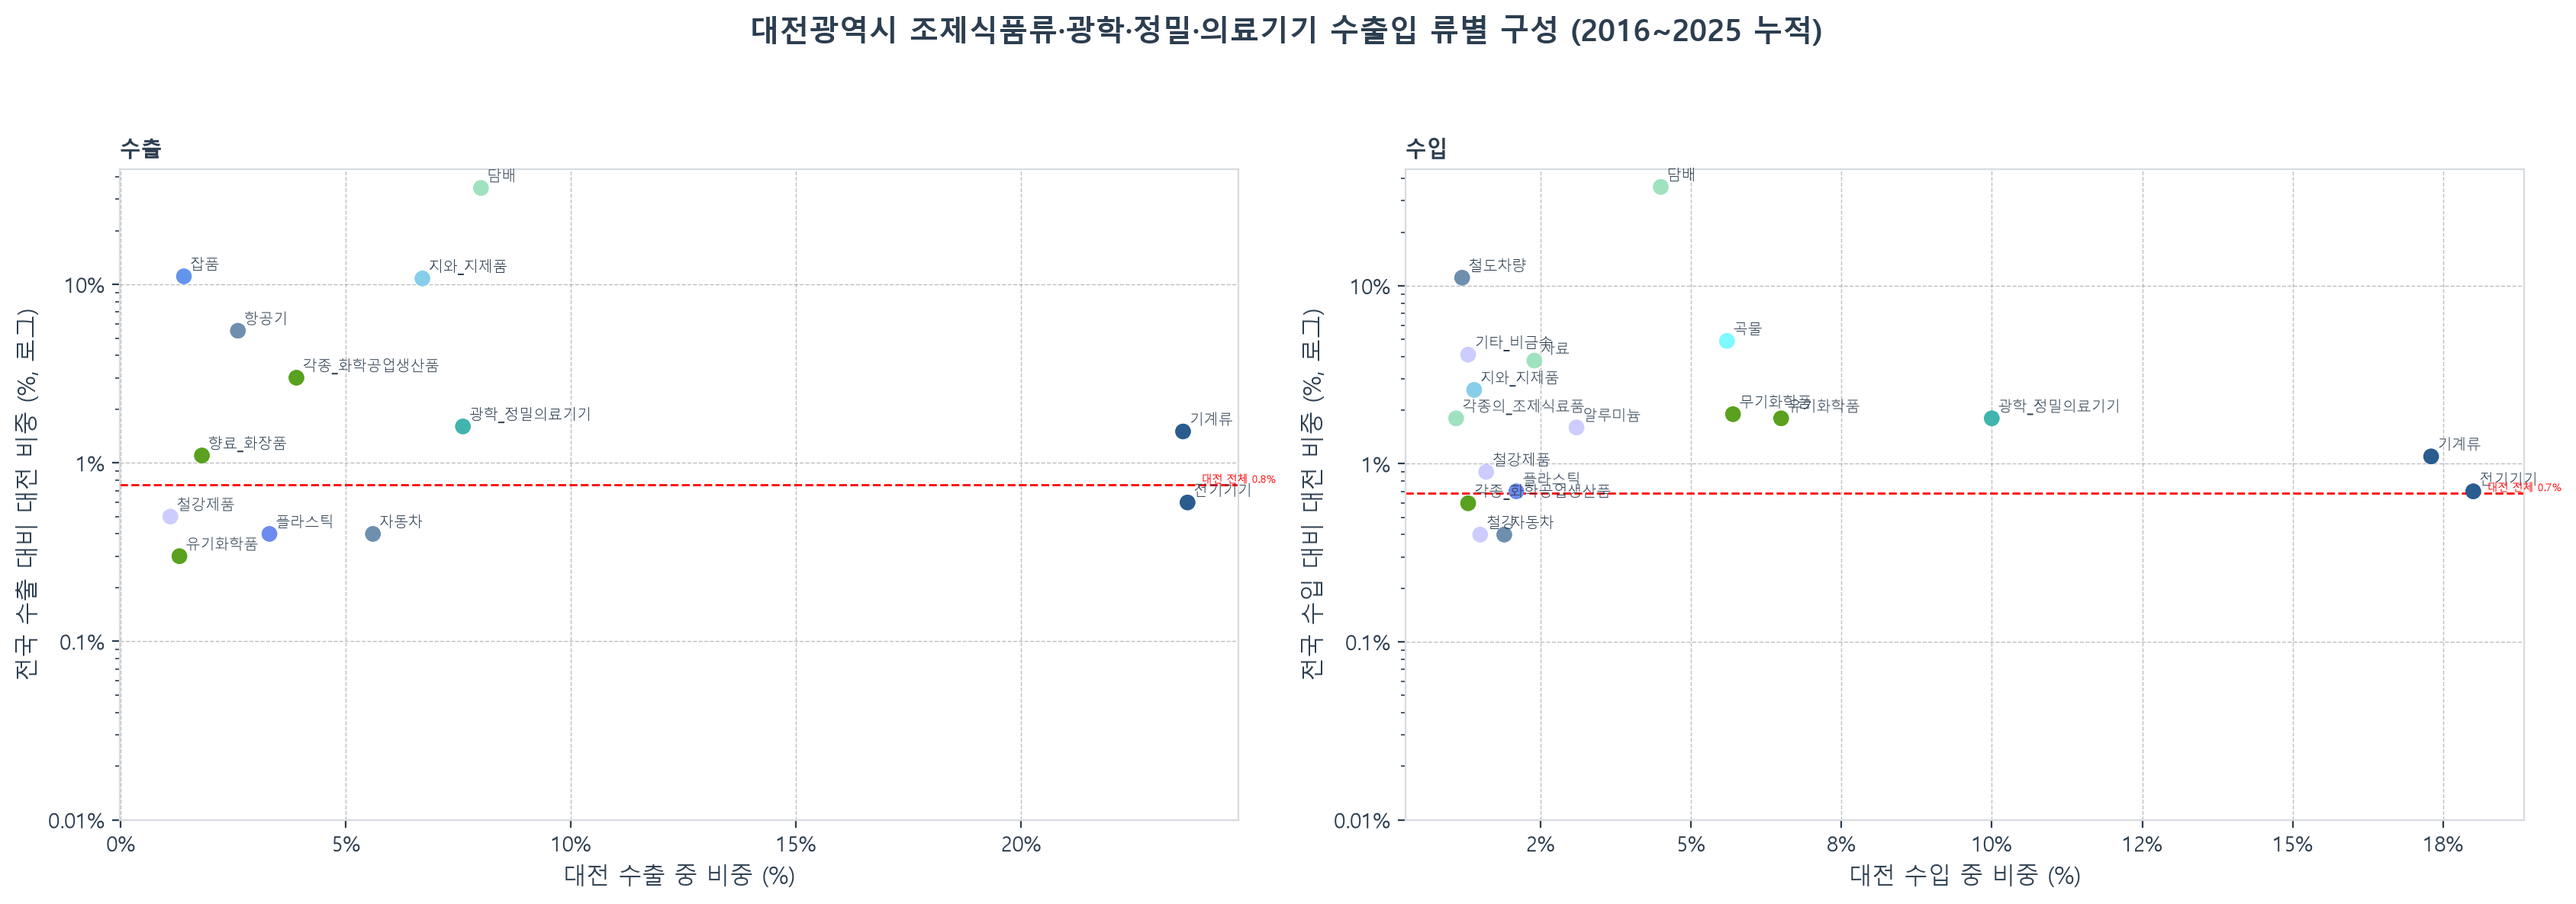
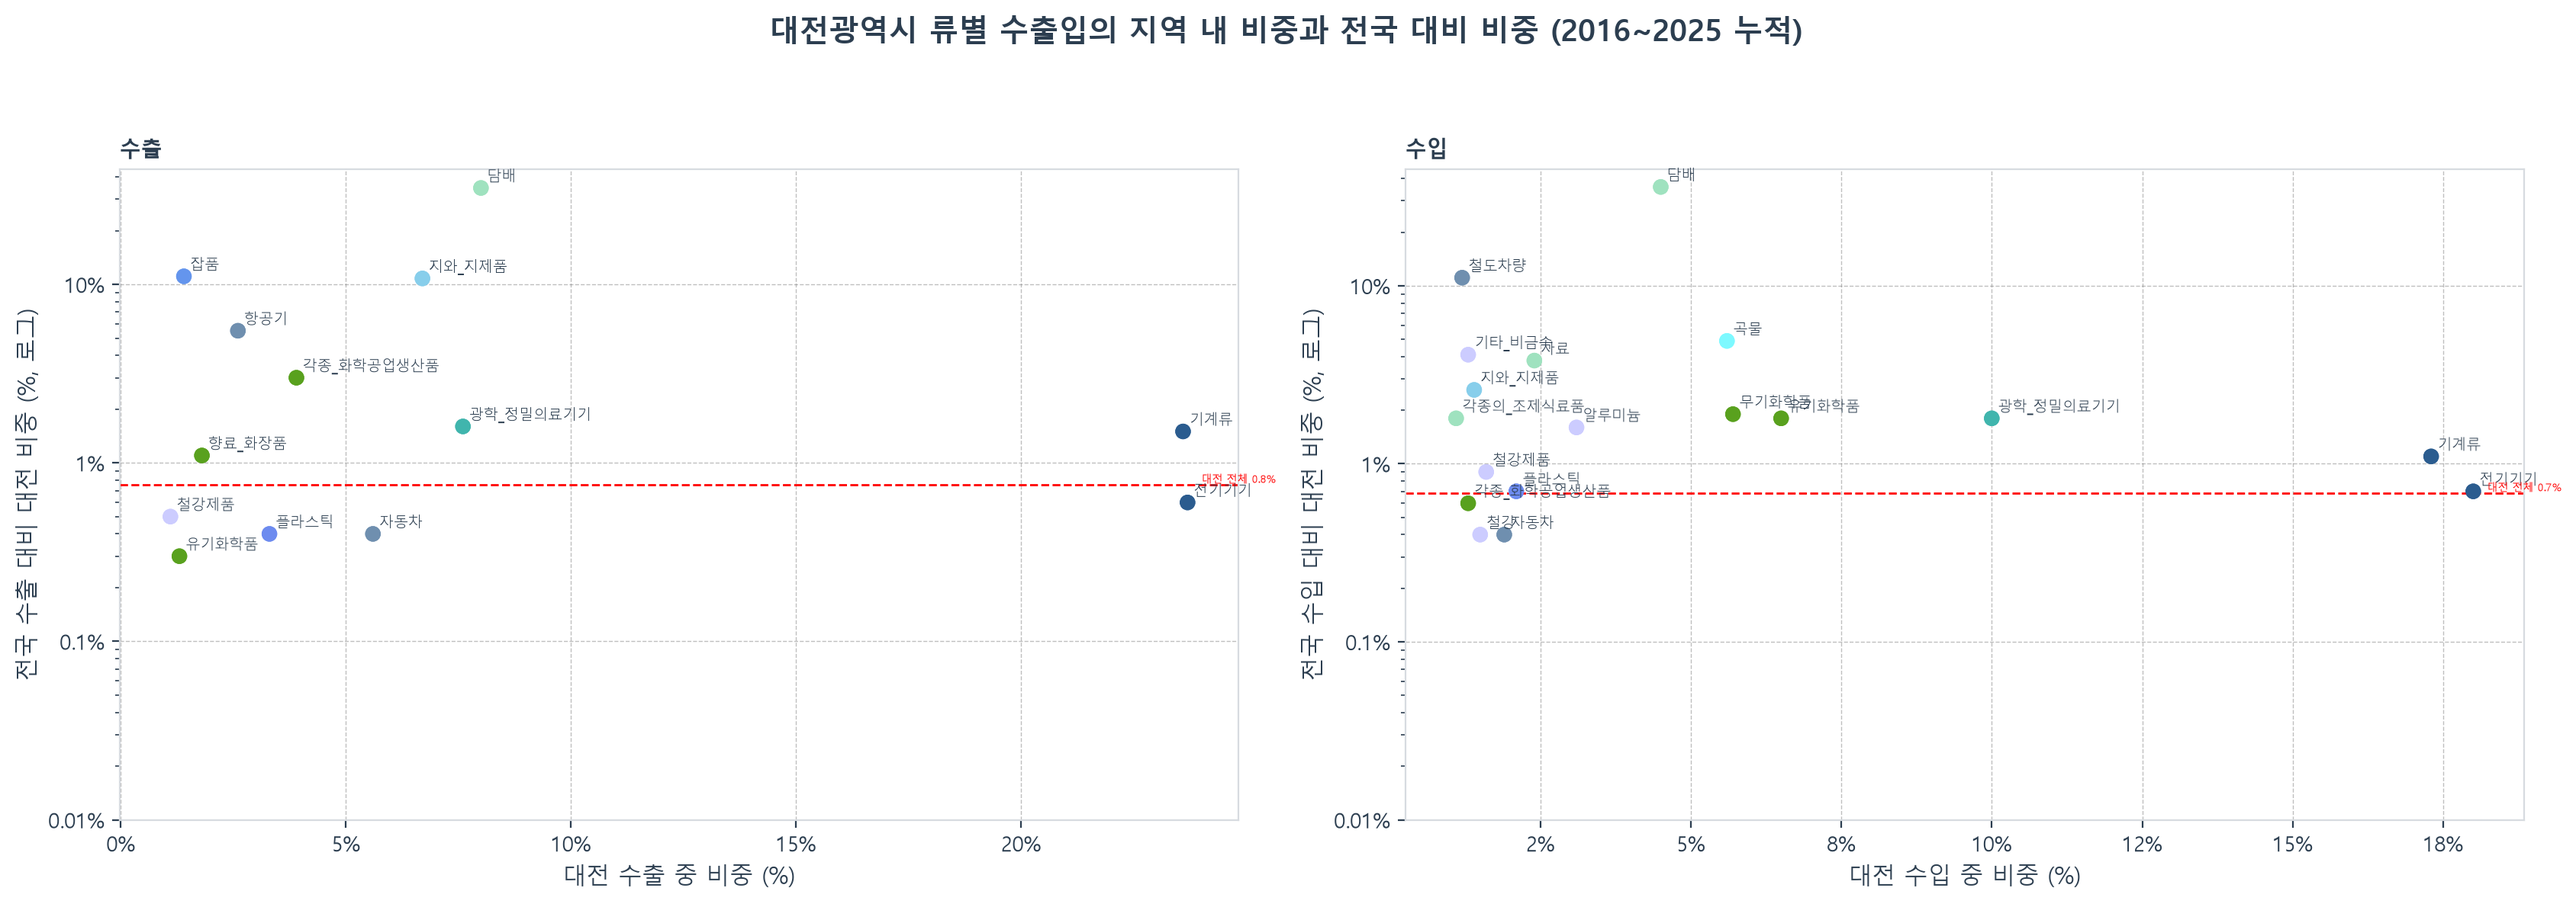
feat: write README
chore: fix chart title and file import structure - industry mix vs national

chore: change title
- DJ section ratio per nation

Changed region(s): [[0.2799, 0.0, 0.7153, 0.0624]]

diff --git a/src/vs/09_industry_mix_vs_national.py b/src/vs/09_industry_mix_vs_national.py
@@ -12,13 +12,19 @@
 ====================================================================
 """
 
+import sys
+from pathlib import Path
 import matplotlib.pyplot as plt
 import pandas as pd
 
+SRC_DIR = Path(__file__).resolve().parents[1]
+BASE_DIR = SRC_DIR.parent
+sys.path.insert(0, str(SRC_DIR))
 from core.utils_chart import PALETTE, save, use_korean_font
-from core.utils_validate_data import PROJECT_ROOT
 
-SRC = PROJECT_ROOT / "data/processed/kosis_estab_survey.csv"
+data_dir = BASE_DIR / "data" / "processed"
+FILE_PATH = data_dir / "kosis_estab_survey.csv"
+
 REGION = "대전"
 NATIONAL = "전국"
 METRIC = "매출액"
@@ -27,7 +33,7 @@ MIN_GAP = 1.0  # percentage points; below this the difference is not the story
 
 use_korean_font()
 
-df = pd.read_csv(SRC)
+df = pd.read_csv(FILE_PATH)
 years = sorted(int(y) for y in df["연도"].unique())
 
 revenue = df[df["지표"] == METRIC].pivot_table(
@@ -66,7 +72,7 @@ for bar, industry in zip(bars, gap.index):
 ax.axvline(0, color="#7a848d", linewidth=1)
 ax.set_xlabel(f"전국 대비 매출액 비중 차이 (%p, {years[0]}~{years[-1]} 평균)")
 ax.set_title(
-    "대전은 제조 도시가 아니다",
+    f"대전광역시 산업별 매출액 비중의 전국 대비 차이 ({years[0]}~{years[-1]} 평균)",
     fontsize=15,
     fontweight="bold",
     pad=14,

diff --git a/src/vs/TD_10_DJ_relative_national.py b/src/vs/TD_10_DJ_relative_national.py
@@ -18,12 +18,11 @@ from pathlib import Path
 import matplotlib.pyplot as plt
 import numpy as np
 import pandas as pd
-from matplotlib.ticker import FixedLocator
 
 SRC_DIR = Path(__file__).resolve().parents[1]
 BASE_DIR = SRC_DIR.parent
 sys.path.insert(0, str(SRC_DIR))
-from core.utils_chart import TRADE_DATA, PALETTE, save, use_korean_font
+from core.utils_chart import TRADE_DATA, save, use_korean_font
 
 data_dir = BASE_DIR / "data" / "processed"
 FILE_PATH = data_dir / "tradedata_2000_2025_4_added.csv"
@@ -168,7 +167,7 @@ def plot_profile():
         )
 
     fig.suptitle(
-        f"대전광역시 조제식품류·광학·정밀·의료기기 수출입 류별 구성 ({start}~{df['기간'].max()} 누적)",
+        f"대전광역시 류별 수출입의 지역 내 비중과 전국 대비 비중 ({start}~{df['기간'].max()} 누적)",
         fontsize=14,
         fontweight="bold",
     )

diff --git a/README.md b/README.md
@@ -213,7 +213,7 @@ Exports 2025: −0.15%, much larger than any other year. The likely reason is th
 
 2000~2007까지는 전국 수출입구조와 다르게 무역 적자를 기록했으나 2007년 이후 전국 수출입구조에서 적자를 기록했을때 대전시는 흑자를 기록하거나 전국보다 적자율이 적었다. 기계 및 전기기기의 수입 및 수출 비중이 전국 평균보다 많은 편이었지만 충청도에 비해서는 수출율이 낮았다. 눈에 띄는 점은 광학 정밀 의료기기 + 조제식품류의 수입률이 전국이나 충청대비 높았다는 것이다. 다른 곳은 비율이 적어 기타로 빠진 반면 대전은 top4에 들었음 반면 광물성 생산품의 수입률은 전국/충청대비 top4에 들지 않음
 2019년에 수송기기 수출이 전년에 비해 증가했음에도 불구하고 자동차 수출이 100%였음
-항공기 수출이 전국 대비 많은 비율을 차지하는데 전국대비 많은 무기 화학품 수입 / 기계류 수출과 연관이 있지 않을까 그렇다면 군사적인 것과 관련이 있을까. 항공기 수출에 있어 년도별 변동성이 큼. 2013년도에 철도 차량을 많이 수입한 것으로 보아 도시의 확대? 와 관련이 있지 않을까. 광학 정밀 의료기기의 수입률이 높다는 것은 노인인구비율이 높거나 큰 병원이 있을 가능성이 있어보임. 수송기기에서 자동차의 수출량에 집중했었는데 실제 전국에서 차지하는 비율은 항공기가 더 높음을 알 수 있었음. 전국대비 수입량에 비해 수출량이 많다(TD_10 print)
+항공기 수출이 전국 대비 많은 비율을 차지하는데 전국대비 많은 무기 화학품 수입 / 기계류 수출과 연관이 있지 않을까 그렇다면 군사적인 것과 관련이 있을까. 항공기 수출에 있어 년도별 변동성이 큼. 2013년도에 철도 차량을 많이 수입한 것으로 보아 도시의 확대? 와 관련이 있지 않을까. 광학 정밀 의료기기의 수입률이 높다는 것은 노인인구비율이 높거나 큰 병원이 있을 가능성이 있어보임. 수송기기에서 자동차의 수출량에 집중했었는데 실제 전국에서 차지하는 비율은 항공기가 더 높음을 알 수 있었음. 전국대비 수입량에 비해 수출량이 많다(TD_10 print) 제조업보다는 담배의 도시가 아닐까. 항공기보다 자동차수출에 주목했었는데 plot결과 항공기가 국내 수출의 많은 비율을 차지한다는 것을 알게 되었음. 기계류의 경우 대전 수출 비중의 많은 부분을 차지하면서도 전국 수출대비 눈에 띌만한? 비중을 차지한다고 생각되었음. 그리고 대전 수출입 신고ㅗ건수 및 건당 금액은 2023년부터 2025년까지 급증하는 추세를 보였는데 이 또한 항공기 때문이 아닌가. 이 시기에 증가한것은 기계및 전기기기인데 흥미로운점은 이 시기에 항공기의 수출비중이 늘어났다는 것이다. 따라서 대전시가 고가의 물건을 많이 수출한다는것은 항공기와 관련이 있을 것이다. 따라서 대전시는 제조업의 도시라기보다 전문 과학기술의 도시라고 할 수 있다.
 
 조제식품류      담배       8.0     34.7       4.5     35.9
 담배의 전국대비 수출, 수입 비중이 정확히 일치하는데 우연인가??
